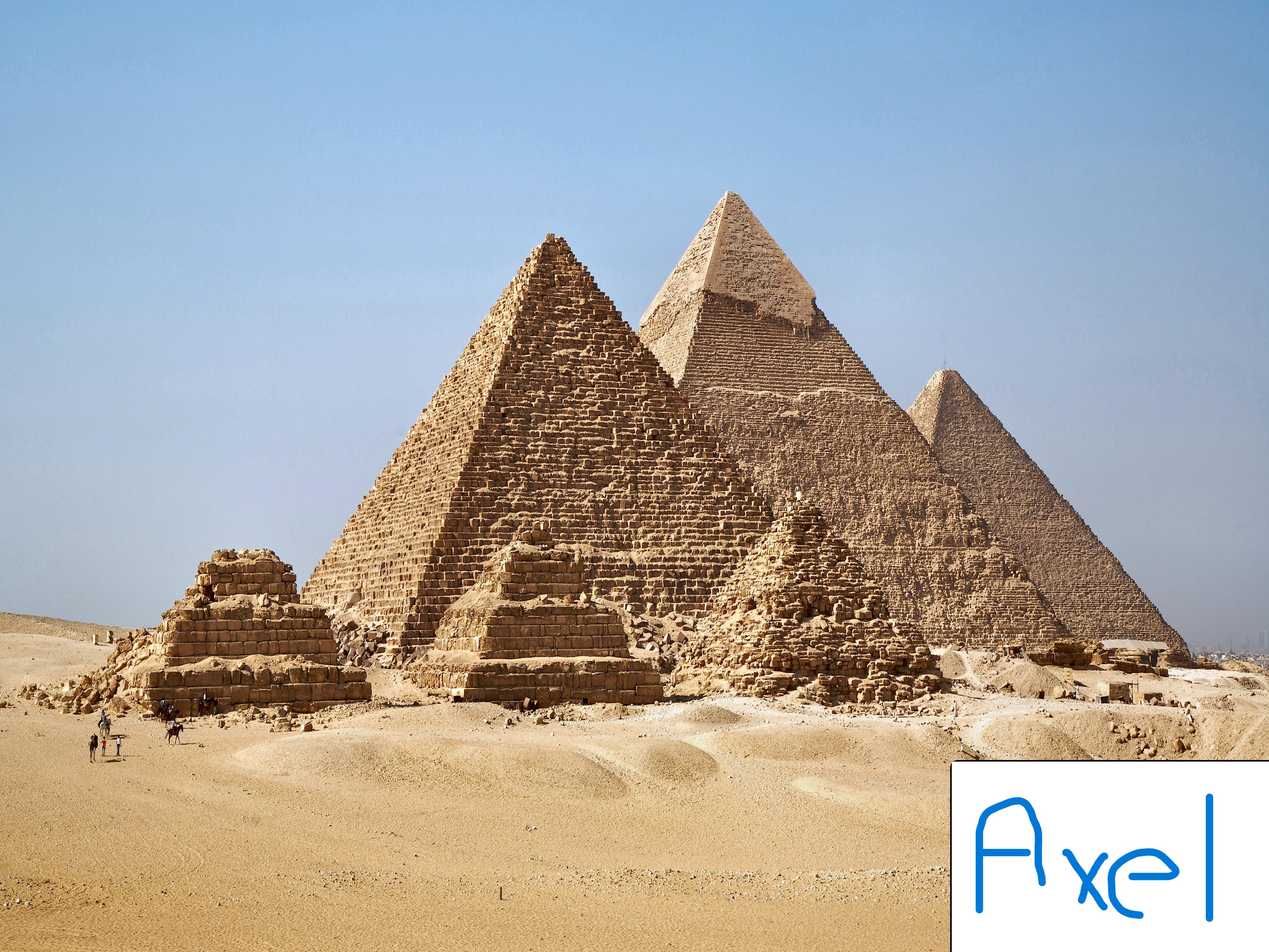
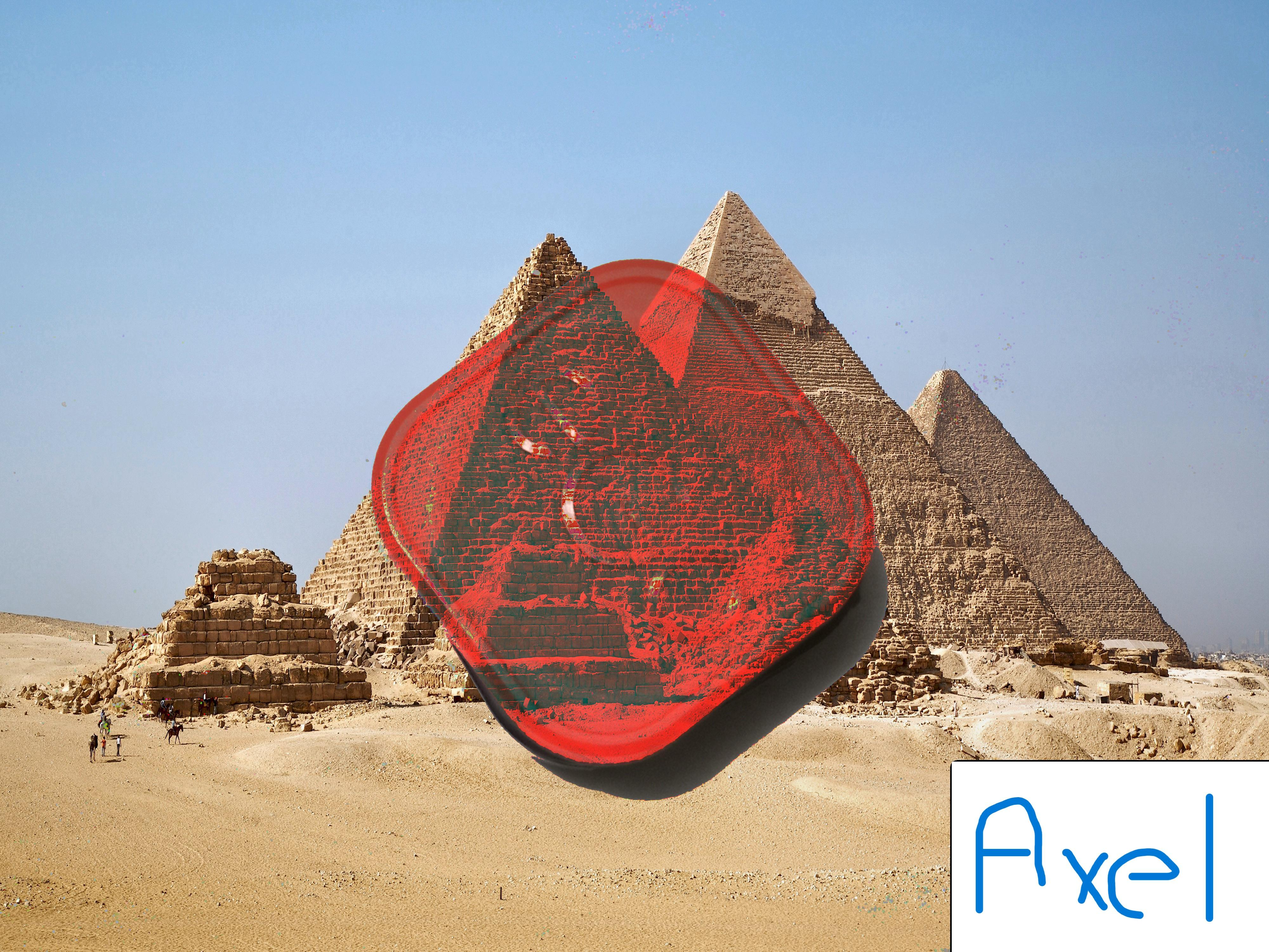
Cambios menores

Changed region(s): [[0.2812, 0.248, 0.7188, 0.868], [0.7188, 0.992, 0.75, 1.0]]

diff --git a/practica_4_PDI.py b/practica_4_PDI.py
@@ -45,7 +45,7 @@ merged_image.save("IMG/merged_image.jpg")
 #   Abrimos las imagenes necesarias para la combinación
 Modelo = Image.open("IMG/merged_image.jpg")
 Objeto = Image.open("IMG/objetoN.jpg")
-Fondo_nuevo = Image.open("IMG/Fondo_nuevo.jpg")
+Fondo_nuevo = Image.open("IMG/Piramide_Red.jpg")
 #   Obtenemos la diferencia entre el modelo y el objeto que queremos segmentar
 diferencia_absoluta = ImageChops.difference(Modelo,Objeto)
 #   Para poder tener mejor resultado convertimos a escala de grises
@@ -56,8 +56,8 @@ umbral=37
 mascara_bin = diferencia_absoluta.point(lambda p: 255 if p > umbral else 0)
 mascara_bin = mascara_bin.filter(ImageFilter.MinFilter(3))
 mascara_bin = mascara_bin.filter(ImageFilter.MaxFilter(5))
-
 #   Llamamos a la función encargada de unir las imagenes
 imagen_f=combinar(Objeto,Fondo_nuevo,mascara_bin)
 #   Mostramos el resultado
+imagen_f.save("IMG/imagen_comb.jpg")
 imagen_f.show()

diff --git a/union.py b/union.py
@@ -1,6 +1,6 @@
 from PIL import Image, ImageChops, ImageOps
 #   Abrimos las imagenes para combinar
-Fondo_nuevo = Image.open("IMG/Piramide_Red.jpg")
+Fondo_nuevo = Image.open("IMG/imagen_comb.jpg")
 rectangulo_nombre = Image.open("IMG/imagen_con_rectangulo_nombre.jpg")
 rectangulo = Image.open("IMG/imagen_con_rectangulo.jpg")
 rectangulo.convert("L")
@@ -16,3 +16,4 @@ N_y_R = ImageChops.multiply(rectangulo_nombre.convert("RGB"),rectangulo.convert(
 Nuevo_fondo = ImageChops.add(F_y_R,N_y_R)
 # Guardamos la foto que nos ayudara con el proceso principal
 Nuevo_fondo.save("IMG/Fondo_nuevo.jpg")
+Nuevo_fondo.show()
